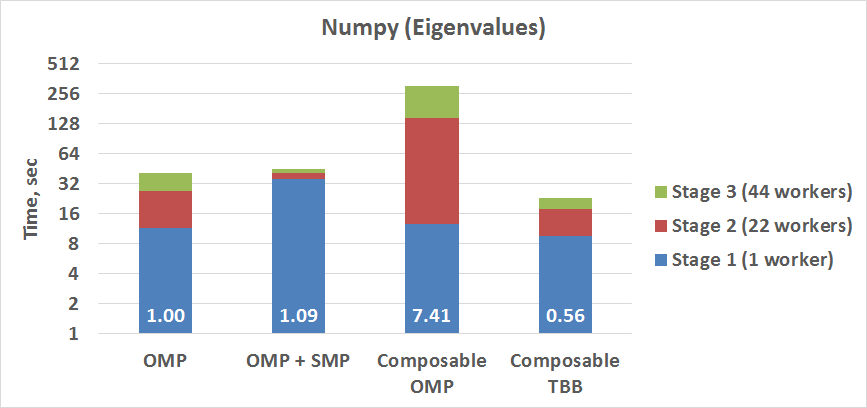
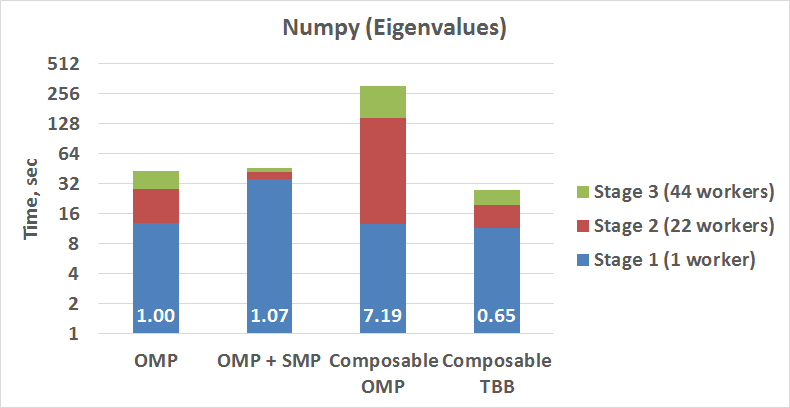
Add benchmarks description

diff --git a/papers/anton_malakhov/00_amalakhov.rst b/papers/anton_malakhov/00_amalakhov.rst
@@ -13,7 +13,7 @@
 :institution: Intel Corporation
 :year: 2017
 
-:video: TODO: Add video link
+:video: Unknown
 
 ---------------------------------------------------------------------
 Composable Multi-Threading and Multi-Processing for Numeric Libraries
@@ -158,7 +158,8 @@ The code below is a simple program using Dask that validates QR decomposition by
     :linenos:
 
     import time, dask, dask.array as da
-    x = da.random.random((440000, 1000), chunks=(10000, 1000))
+    x = da.random.random((440000, 1000),
+                         chunks=(10000, 1000))
     for i in range(3):
         t0 = time.time()
         q, r = da.linalg.qr(x)
@@ -170,53 +171,157 @@ Here, Dask splits the array into 44 chunks and processes them in parallel using 
 However, each Dask task executes the same NumPy matrix operations which are accelerated using Intel |R| MKL under the hood and thus multi-threaded by default.
 This combination results in nested parallelism, i.e. when one parallel component calls another component, which is also threaded.
 
-**[TODO: rewrite]**
-The reason why the Dask version was set to have only 44 tasks is to model real-life applications with limited parallelism on the outermost level, which is quite typical for functional and pipeline types of parallelism.
-Such cases might benefit the most from enabling parallelism at inner levels of the code.
-In the case when the top-level parallelism can load all the available cores and is well-balanced, nested parallelism is not that likely to improve performance (but can make it much worse without a composable threading solution).
-
-**[TODO: rewrite]**
-Here is an example of running the benchmark program in three different modes:
+Here is an example of running the benchmark program in five different modes:
 
 .. code-block:: sh
     :linenos:
 
-    python bench.py                   # Default MKL
-    OMP_NUM_THREADS=1 python bench.py # Serial MKL
-    python -m TBB bench.py            # Intel TBB mode
+    python bench.py         # Default OpenMP mode
+    KMP_BLOCKTIME=0 OMP_NUM_THREADS=4 \
+        python bench.py     # Tunned OpenMP mode
+    python -m SMP bench.py  # OpenMP + SMP mode
+    KMP_COMPOSABILITY=mode=exclusive \
+        python bench.py     # Composable OpenMP mode
+    python -m TBB bench.py  # Composable TBB mode
 
-**[TODO: rewrite]**
-Figure SOME shows performance results acquired on a 32-core (no hyper-threading) machine with 64GB memory. The results presented here were acquired with cpython v3.5.1; however, there is no performance difference with cpython v2.7.1.
-The Dask version runs slower than the NumPy version with the default setting because 10 outermost tasks end up calling 10 OpenMP-based parallel regions that create 10 times more threads than available hardware resources.
+.. figure:: dask_static.png
 
-The second command runs this benchmark with innermost OpenMP parallelism disabled.
-It results in the worst performance for the NumPy version since everything is now serialized.
-Moreover, the Dask version is not able to close the gap completely since it has only 10 tasks, which can run in parallel, while NumPy with parallel MKL is able to utilize the whole machine with 32 threads.
+   Execution times for balanced QR decomposition workload. :label:`sdask`
 
-The last command demonstrates how Intel |R| TBB can be enabled as the orchestrator of multi-threaded modules.
-The TBB module runs the benchmark in the context of :code:`with TBB.Monkey():` which replaces the standard Python *ThreadPool* class used by Dask and also switches MKL into TBB mode.
-In this mode, NumPy executes in more than twice the time compared to the default NumPy run.
-This happens because TBB-based threading in MKL is new and not as optimized as the OpenMP-based MKL threading implementation.
-However despite that fact, Dask in TBB mode shows the best performance for this benchmark, 46% improvement compared to default NumPy.
-This happens because the Dask version exposes more parallelism to the system without over-subscription overhead, hiding latencies of serial regions and fork-join synchronization in MKL functions.
+Figure :ref:`sdask` shows performance results acquired on a 44-core (88-thread) machine with 128GB memory. The results presented here were acquired with cpython v3.5.2; however, there is no significant performance difference with cpython v2.7.12.
+By default Dask will process a chunk in a separate thread so there will be 44 threads on the top level. Also each chunk will be computed in parallel with 44 OpenMP workers.
+Thus there will be 1936 threads in total which tries to acquire 44 cores that is not effective.
+
+An obvious way to improve performance is to tune OpenMP runtime using environment variables. First of all it's needed to limit total number of threads.
+Let's set 2x over-subsctiption instead of quadratic as our target. Since we work on 88-thread machine, to archive it we should set number of threads per parallel region to 4 ((88 CPU threads / 44 top level threads) * 2x over-subscription).
+Also we noticed that reducing period of time after which OpenMP worker will go to sleep helps to improve performance in such workloads with over-subscription (it works best for multi-processing case but helps for multi-threading as well).
+That's why another option here is KMP_BLOCKTIME that sets to zero. As one can see such simple optimizations allows to reduce computational time to more than 3x.
+
+The third mode with *SMP.py* module in fact does the same optimizations but automatically and shows the same level of performance as the second one. Moreover it is more flexible and allows to work carefully with several thread/process pools in scope of one application even if they have different sizes.
+Thus we invite to use it as an advanced alternative to manual OpenMP tunning.
+
+The fourth and fifth modes represents our dynamic OpenMP and Intel |R| TBB based approaches. Both modes allows to improve default result but exclusive execution with OpenMP works faster.
+As it was described above OpenMP based solution allows to process chunks one by one without any over-subscription. And since each separate chunk can utilize the whole CPU - such approach works fine here.
+In contrast work stealing task scheduler from  Intel |R| TBB is trully dynamic and tries to use the only thread pool to process all given tasks simultanioulsy. As a result one has worse cache utilization as well as bigger overhead of work balancing.
 
 .. [#] For more complete information about compiler optimizations, see our Optimization Notice [OptNote]_
 
 
 Balanced Eignevalues Search with NumPy
 --------------------------------------
-**[TODO: add text]**
+The code below performs an algorithm of eigenvalues and right eigenvectors search in a square matrix using Numpy:
 
+.. code-block:: python
+    :linenos:
+
+    import time, numpy as np
+    from multiprocessing.pool import ThreadPool
+    x = np.random.random((256, 256))
+    p = ThreadPool(44)
+    for j in range(3):
+        t0 = time.time()
+        p.map(np.linalg.eig, [x for i in range(1024)])
+        print(time.time() - t0)
+
+In this example we process several matricies from an array in parallel using :code:`ThreadPool` while each separate matrix is computed using OpenMP parallel regions from Intel |R| MKL.
+As a result, simillary to QR decomposition benchmark we've faced with quadratic oversubscription here.
+But this code has a distinctive feature - in spite of parallel execution of eigenvalues search algorithm it can't fully utilize all available CPU cores. That's why an additional level of parallelizm we used here may significantly improve overall benchmark performance.
+
+.. figure:: numpy_static.png
+
+   Execution time for balanced eignevalues search workload. :label:`snumpy`
+
+Figure :ref:`snumpy` shows benchmark execution time in the same five modes as we used for QR decomposition.
+As previously the best choice here is to limit number of threads statically eigher using manual settings or *SMP.py* module. Such approach allows to obtain more than 3x speed-up.
+But this time Intel |R| TBB based approach looks much better than serialization of OpenMP parallel regions. And the reason is low CPU utilization in each separate chunk.
+In fact exclusive OpenMP mode leads to serial matrix processing, one by one, so significant part of the CPU stays unsed.
+As a result, execution time in this case becomes even larger than by default.
 
 Unbalanced QR Decomposition with Dask
 -------------------------------------
-**[TODO: add text]**
+In previous sections we looked into balanced workloads where amount of work per thread on top level is near the same.
+It's rather expected that for such cases the best solution is static one. But what if one need to deal with dynamic workloads where amount of work per thread or process may vary?
+To investigate such cases we've developed unbalanced versions of our static benchmarks. An idea we used is the following. There is a single thread pool with 44 workers.
+But this time we will perform computations in three stages. The first stage will use only one thread from the pool which is able to fully utilize the whole CPU.
+During the second stage half of top level threads will be used (22 in our examples). And on the third stage the whole pool will be employed (44 threads).
+
+The code above demonstrates unbalanced version of QR decomposition workload:
+
+.. code-block:: python
+    :linenos:
+
+    import time, dask, dask.array as da
+    def qr(x):
+        t0 = time.time()
+        q, r = da.linalg.qr(x)
+        test = da.all(da.isclose(x, q.dot(r)))
+        test.compute(num_workers=44)
+        print(time.time() - t0)
+    x01 = da.random.random((440000, 1000),
+                           chunks=(440000, 1000))
+    x22 = da.random.random((440000, 1000),
+                           chunks=(20000, 1000))
+    x44 = da.random.random((440000, 1000),
+                           chunks=(10000, 1000))
+    qr(x01)
+    qr(x22)
+    qr(x44)
+
+To run this benchmark we've used the already familiar four modes: default, OpenMP with *SMP.py*, composable OpenMP and composable Intel |R| TBB.
+We don't give here the results of OpenMP with manual optimizations since it's very close to the mode "OMP + SMP" 
+
+.. figure:: dask_dynamic.png
+
+   Execution times for unbalanced QR decomposition workload. :label:`ddask`
+
+Figure :ref:`ddask` demonstrates time of execution for all four modes. First observation here is that static *SMP.py* approach can't provide us the best performance in case of unbalanced workloads.
+Since we have the only pool here with fixed number of workers and don't know which of these workers will be really used and how intensively, it's difficult to set an appropriate number of threads statically.
+So we limit number of threads per parallel region based on size of the pool only. As a result, on the first stage just a few threads are really used that leads to performance degradation.
+From the other hand the second and the third stages work well. But it total we have mediocre result.
+
+Work stealing scheduler from Intel |R| TBB works better than default version but due to redundunt work balancing in this particular case it has significant overhead and not the best performance result.
+
+And the best execution time one can obtain using exclusive OpenMP mode. Since it's enough work to do in each parallel region, just their serialization allows to eliminate over-subscription issues and get the best performance - near 34% speed-up.
 
 
 Unbalanced Eigenvalues Search with NumPy
 ----------------------------------------
-**[TODO: add text]**
+The second dynamic exapmle we'd like to discuss is based on eigenvalues search algorithm from NumPy:
 
+.. code-block:: python
+    :linenos:
+
+    import time, numpy as np
+    from multiprocessing.pool import ThreadPool
+    from functools import partial
+
+    x = np.random.random((256, 256))
+    y = np.random.random((8192, 8192))
+    p = ThreadPool
+
+    t0 = time.time()
+    mmul = partial(np.matmul, y)
+    p.map(mmul, [y for i in range(6)], 6)
+    print(time.time() - t0)
+
+    t0 = time.time()
+    p.map(np.linalg.eig, [x for i in range(1408)], 64)
+    print(time.time() - t0)
+
+    t0 = time.time()
+    p.map(np.linalg.eig, [x for i in range(1408)], 32)
+    print(time.time() - t0)
+
+In this workload we have same three stages. The second and the third stage computes eignevalues and the first one performs matrix multiplication.
+The reason of why we don't use eignevalues search for the first stage as well is that it can't fully load CPU as we planned.
+
+.. figure:: numpy_dynamic.png
+
+   Execution time for unbalanced eignevalues search workload. :label:`dnumpy`
+
+From figure :ref:`dnumpy` one can see that the best solution for this workload is work stealing scheduler from Intel |R| TBB which allows to reduce execution time on 35%.
+*SMP.py* module works even slower than default version due to the same issues as described for unbalanced QR decomposition example.
+And as for the mode with serialization of OpenMP parallel regions - it works significantly slower than default version since there is no enough work for each parallel region that leads to CPU underutilization.
 
 Solutions Applicability
 -----------------------
